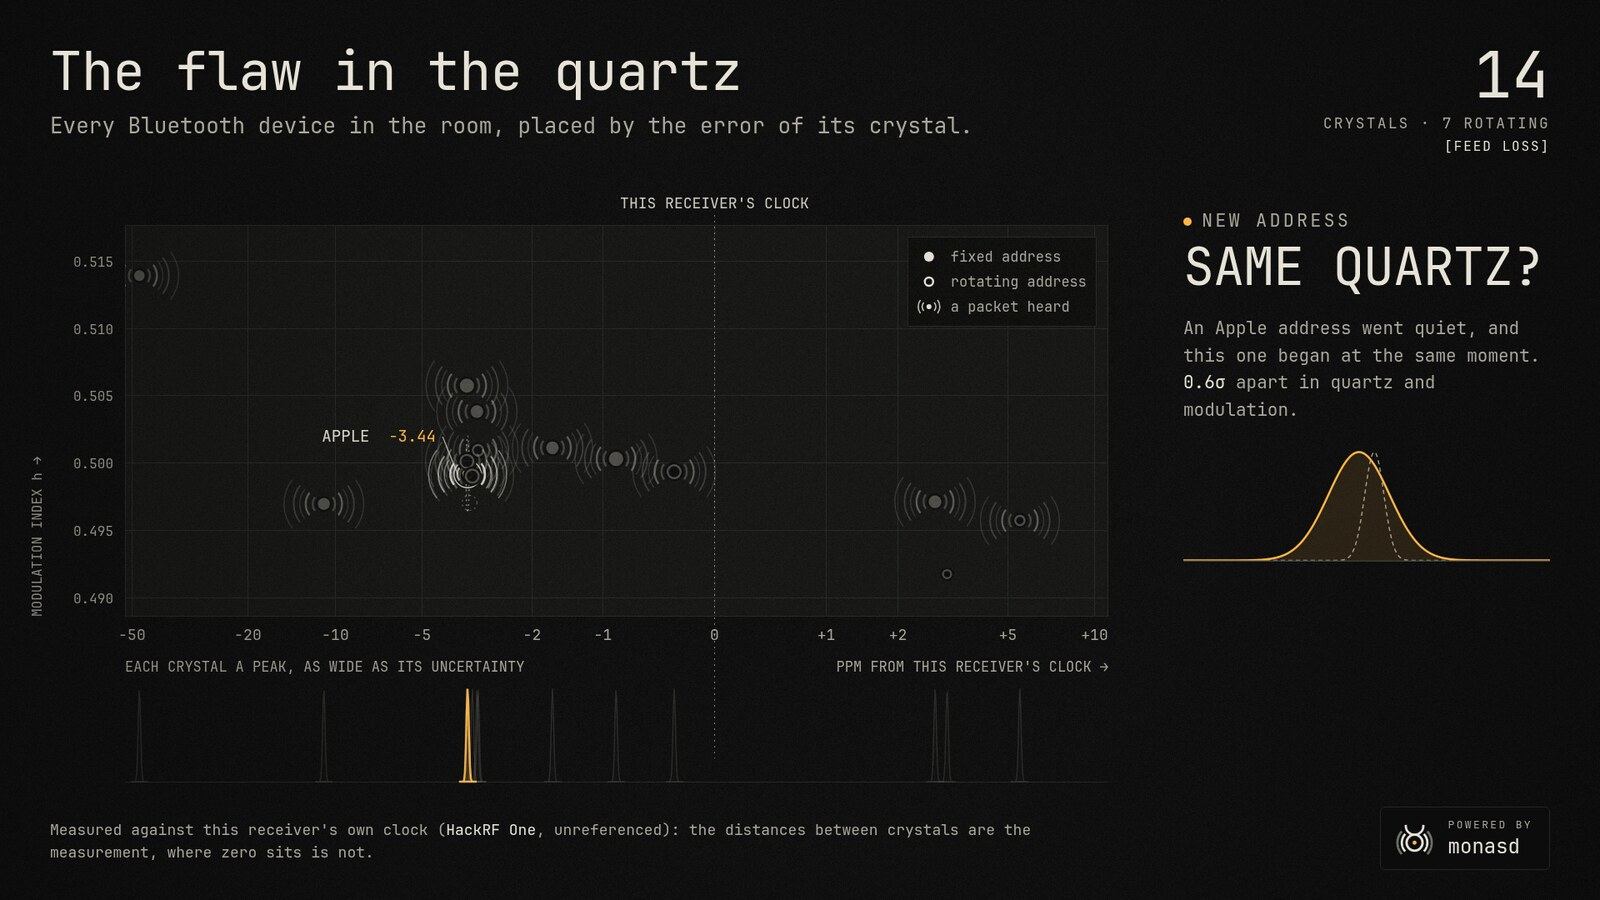
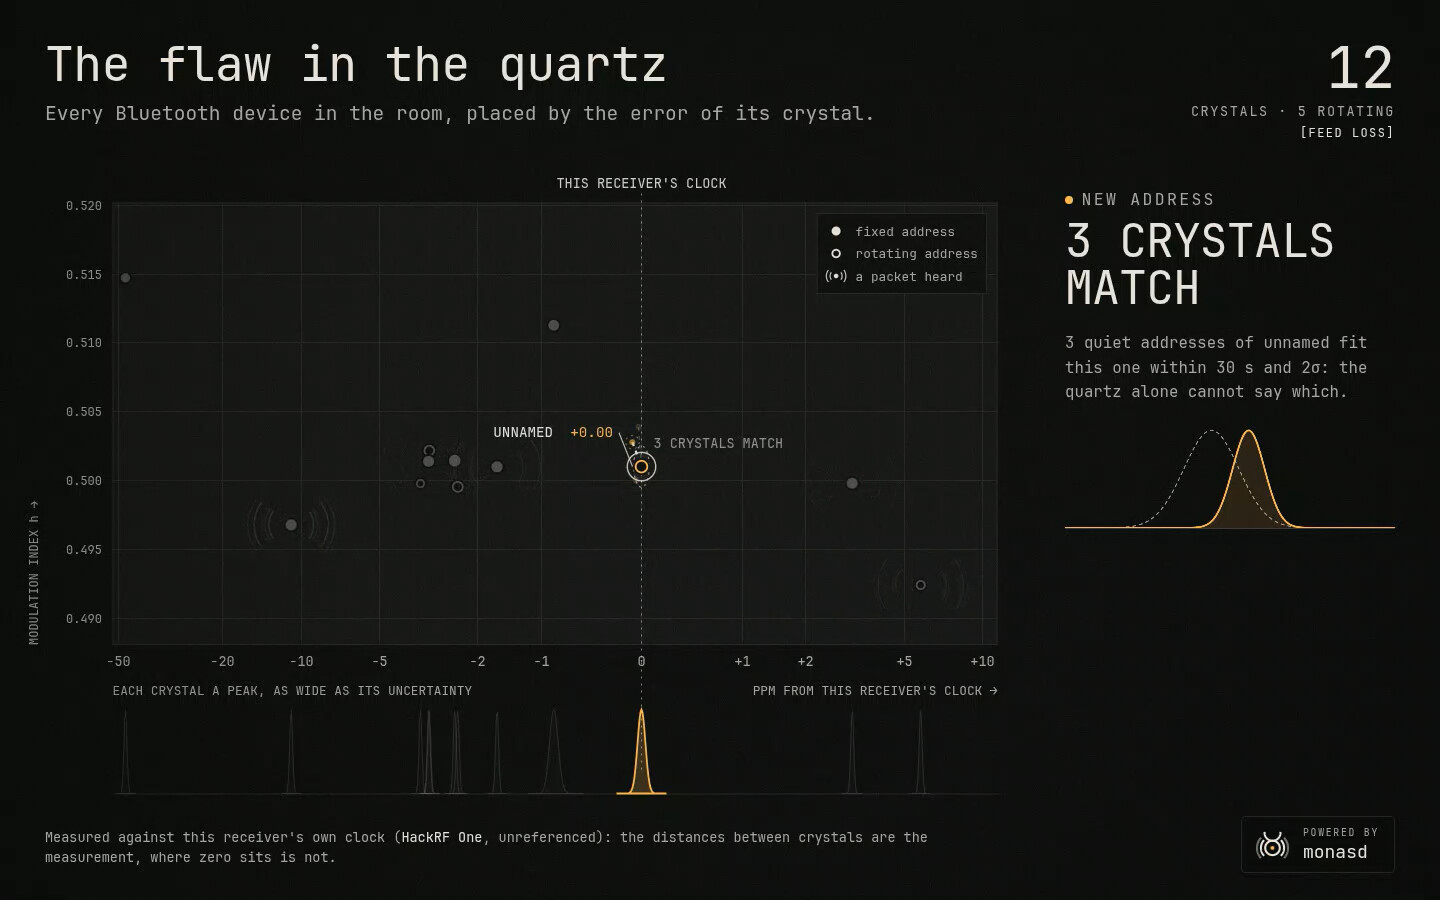
research: a frame where three crystals match, and the panel saying so in plain words

diff --git a/research/quartz/index.html b/research/quartz/index.html
@@ -534,7 +534,7 @@ function momentPanel(M) {
   const when = M.gap < 1 ? "at the same moment" : `<b>${Math.round(M.gap)} s</b> later`;
   document.getElementById("mo-h").textContent = M.k > 1 ? `${M.k} CRYSTALS MATCH` : "SAME QUARTZ?";
   document.getElementById("mo-f").innerHTML = M.k > 1
-    ? `${M.k} quiet addresses of ${shortName(to)} fit this one within 30 s and 2σ: the quartz alone cannot say which.`
+    ? `${M.k} quiet ${shortName(to) === "unnamed" ? "addresses with no maker named" : shortName(to) + " addresses"} fit this one within 30 s and 2σ: the quartz alone cannot say which.`
     : `${/^[aeiou]/i.test(shortName(to)) ? "An" : "A"} ${shortName(to)} address went quiet, and this one began ${when}.<br><b>${M.sep.toFixed(1)}σ</b> apart in quartz and modulation.`;
   // The two crystals, old and new, on the panel's spectrum.
   const Wg = 880, Hg = 280, o = M.from.crystal_offset_ppm, n = to.crystal_offset_ppm;

diff --git a/research/quartz/README.md b/research/quartz/README.md
@@ -13,7 +13,7 @@
 </p>
 
 <p align="center">
-  <img src="pics/quartz.jpg" alt="The quartz page: a new Apple address that began as an old one went quiet, 0.6 sigma apart in quartz, everything else stepped back" width="900">
+  <img src="pics/quartz.jpg" alt="The quartz page: a new address that three quiet ones fit within 30 s and 2 sigma, so the quartz alone cannot say which: 3 CRYSTALS MATCH" width="900">
 </p>
 
 ## What you are looking at
